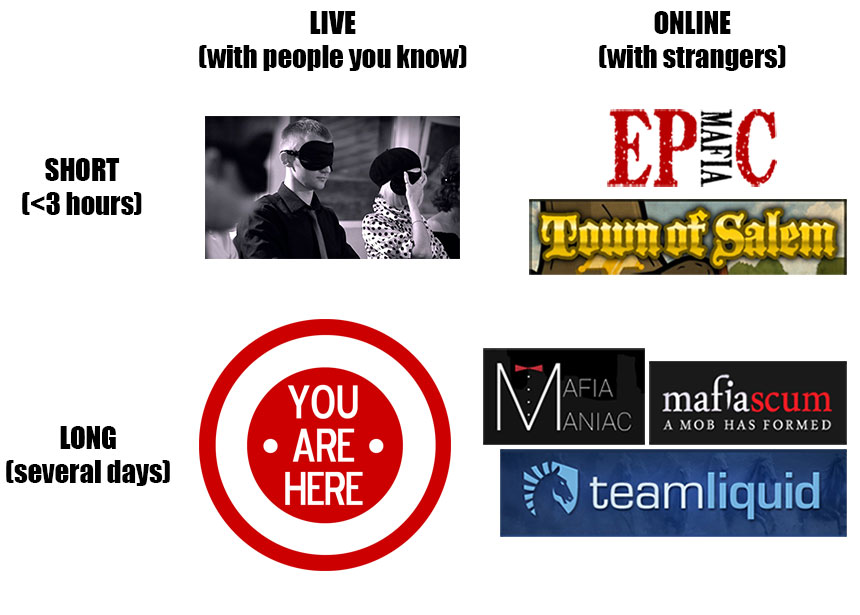
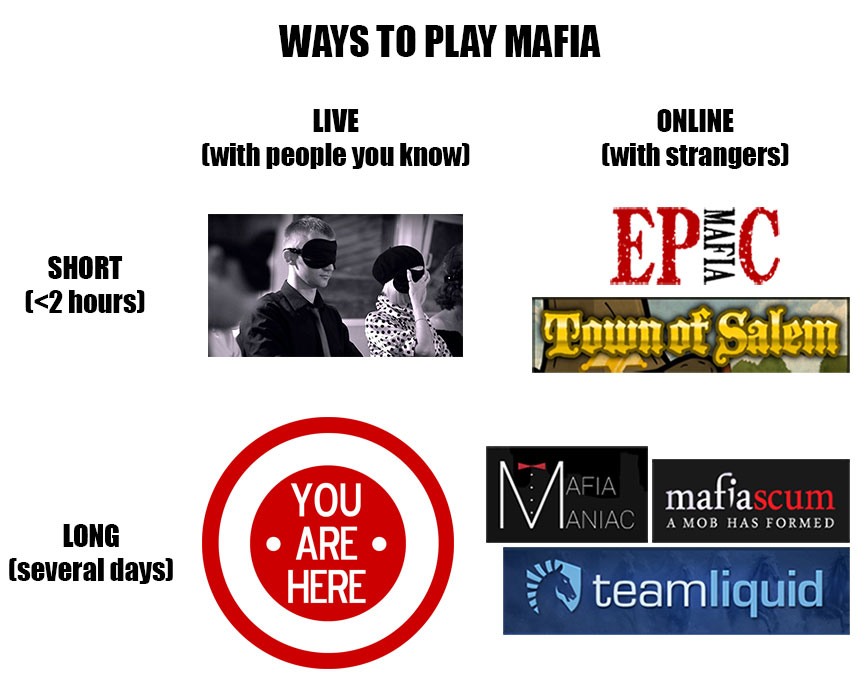
Fix About

diff --git a/Mafia/app/static/cities/info/about.html b/Mafia/app/static/cities/info/about.html
@@ -11,6 +11,17 @@ So, where does this site fit in? It is best described visually.
 
 <br/>
 
+Although not immediately obvious, playing short games requires more <i>effort</i> than playing the long ones.
+<br/><br/>
+When playing a short game, you attention must be exclusively
+focused on the game for at least an hour. During that time you are constrained to remain at one location and wait until you are eliminated from the game or the game is over.
+<br/>
+When playing a long game, the line between you playing a game and living your everyday life is blurred. For only a couple of minutes per day you actually have to <i>do something </i>
+you wouldn't normally do. That is, log into the game and submit your vote or action.
+
+<br/><br/>
+
+
 This site combines best of both live and online play. The following text explains this in more detail.
 
 
